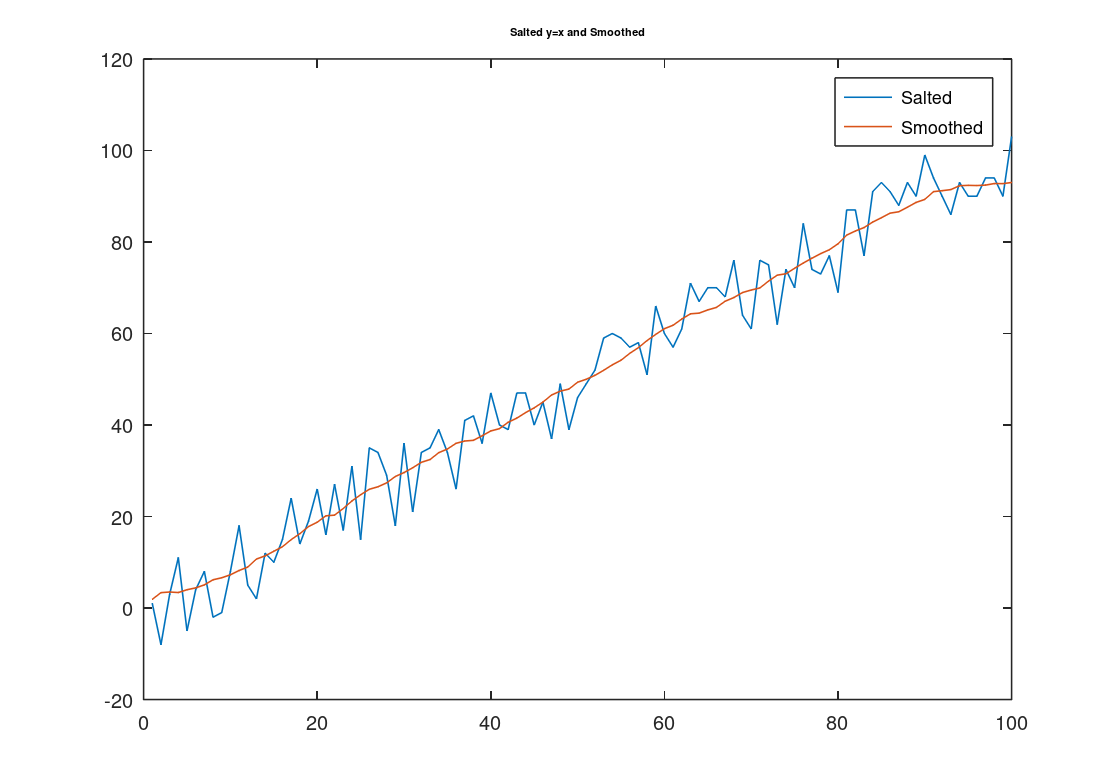
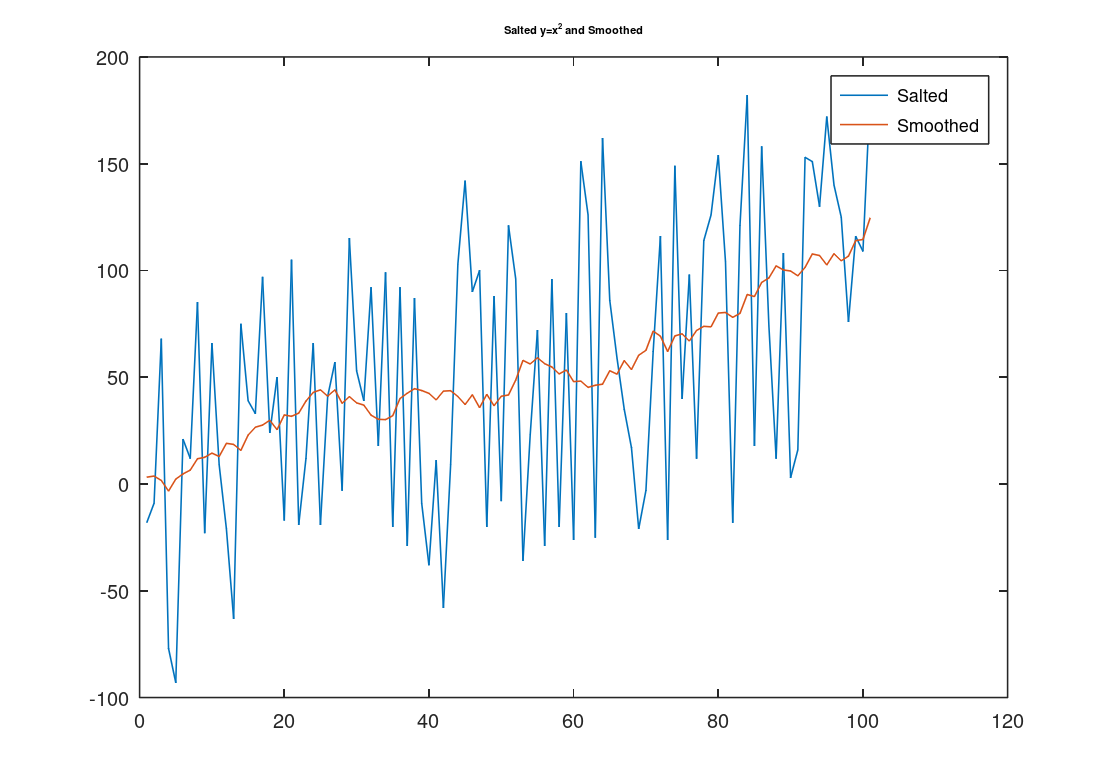
Had to implement images of the graphs for my data set. orignally used Joe's to test. Have a great Summer Professor!!

diff --git a/Graph Plotters/Graph_Plotter.java b/Graph Plotters/Graph_Plotter.java
@@ -22,7 +22,7 @@ public class Graph_Plotter {
         BufferedReader br;
         try
         {
-            fr = new FileReader("SaltedPoints.csv");
+            fr = new FileReader("Final_Graph.csv");
         }
         catch (FileNotFoundException fe)
         {

diff --git a/Project 3/Project 3 code/smoother.m b/Project 3/Project 3 code/smoother.m
@@ -1,5 +1,5 @@
-points = csvread("SaltedPoints.csv")
-windowLength = 20
+points = csvread("Final_Graph.csv")
+windowLength = 100
 yPoints = points(:, 2)
 saltedPoints = yPoints;
 smoothedPoints = movmean(yPoints, windowLength)
